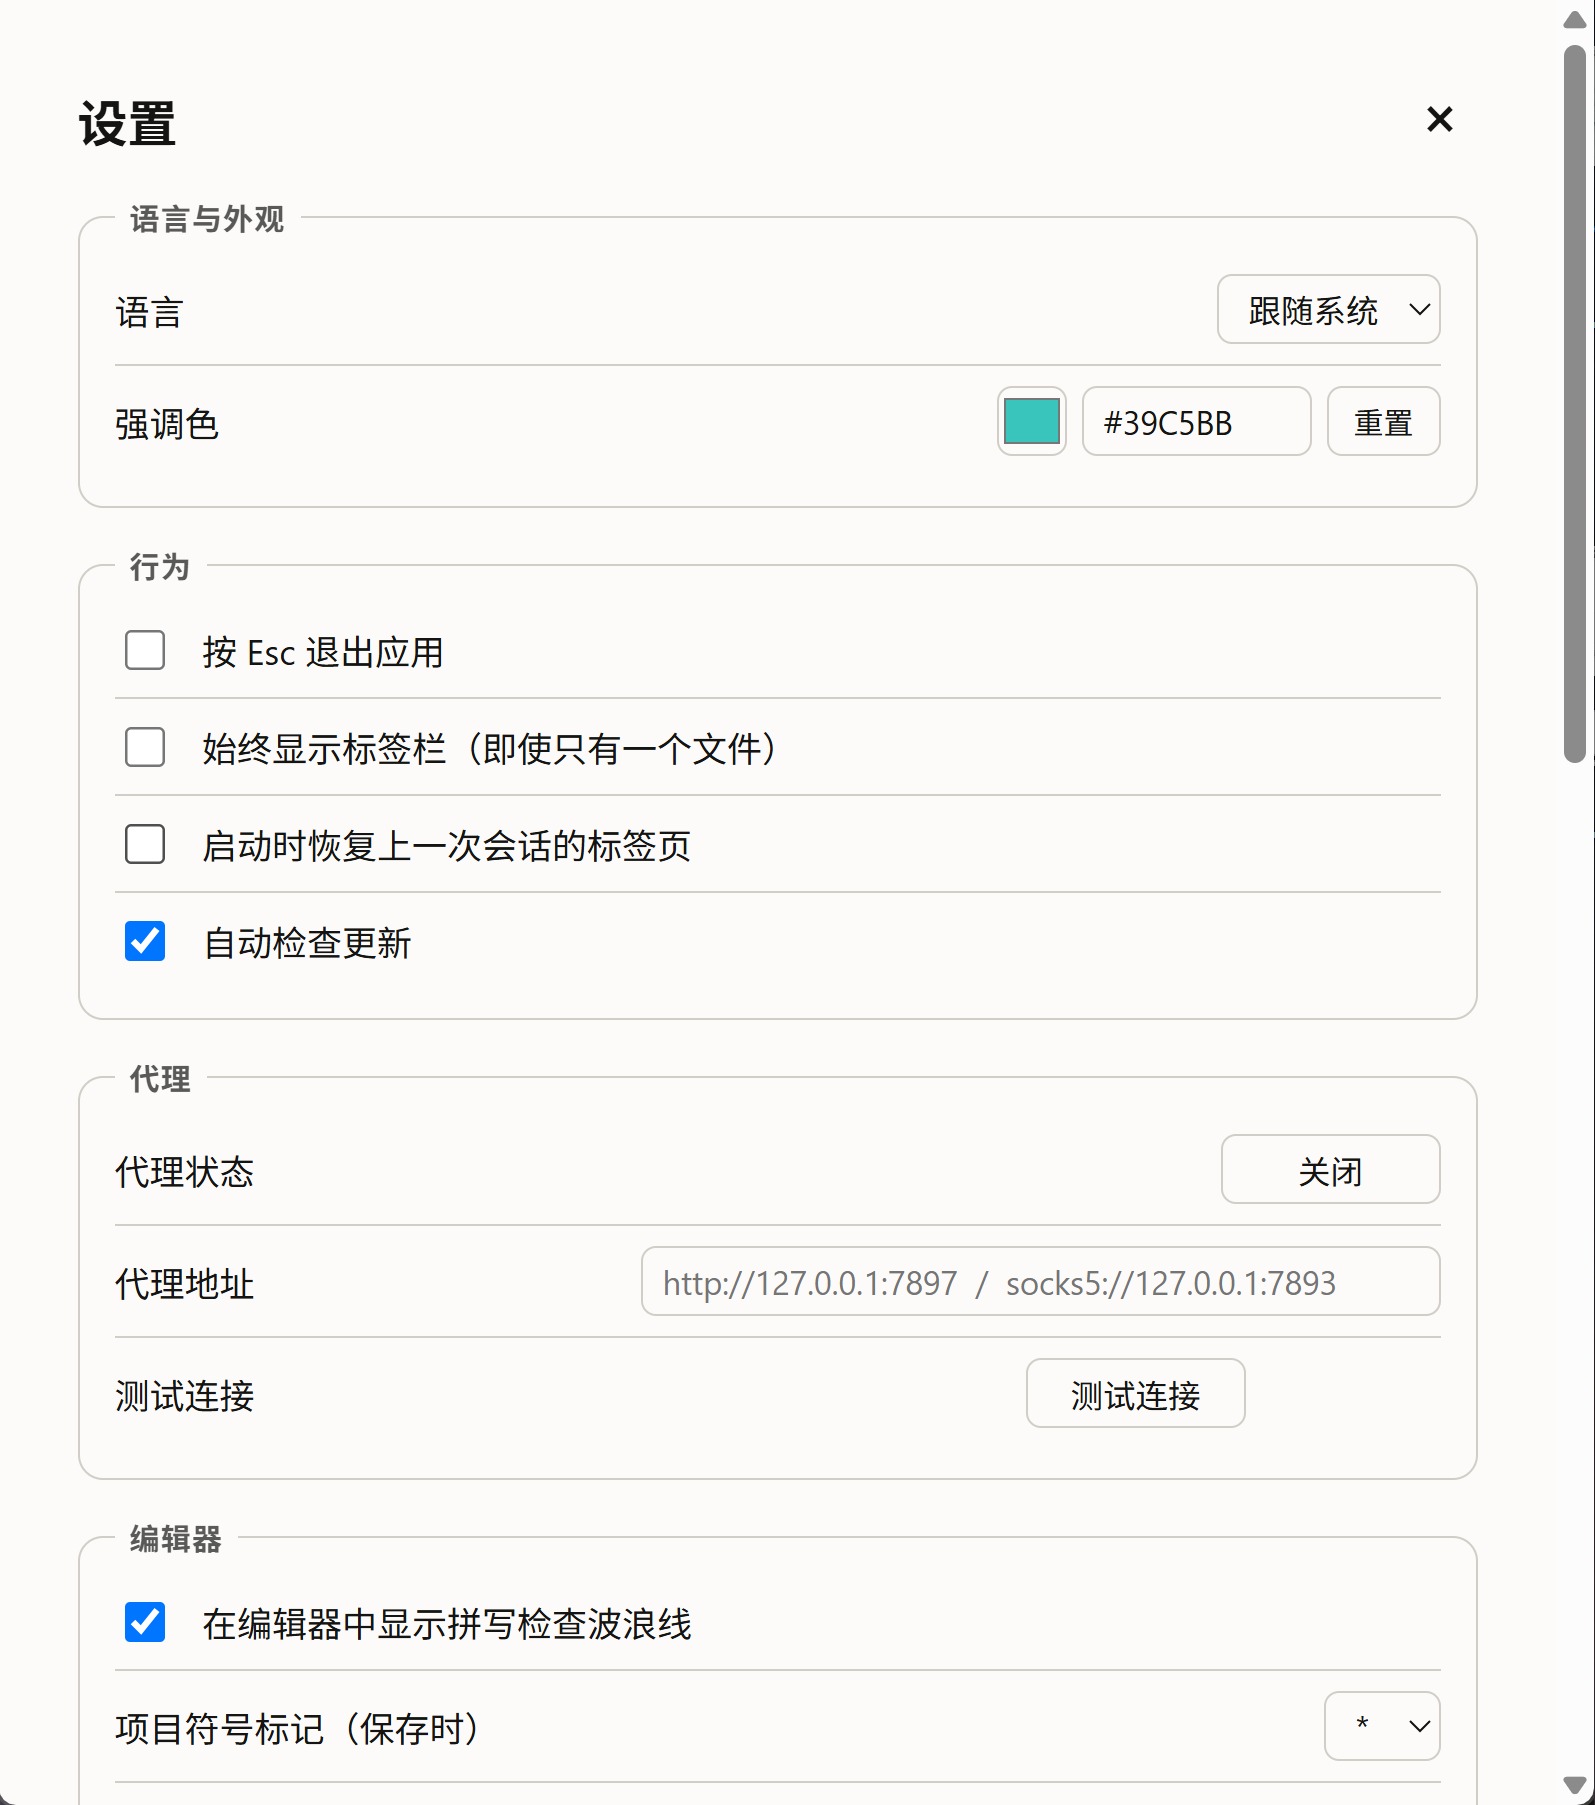
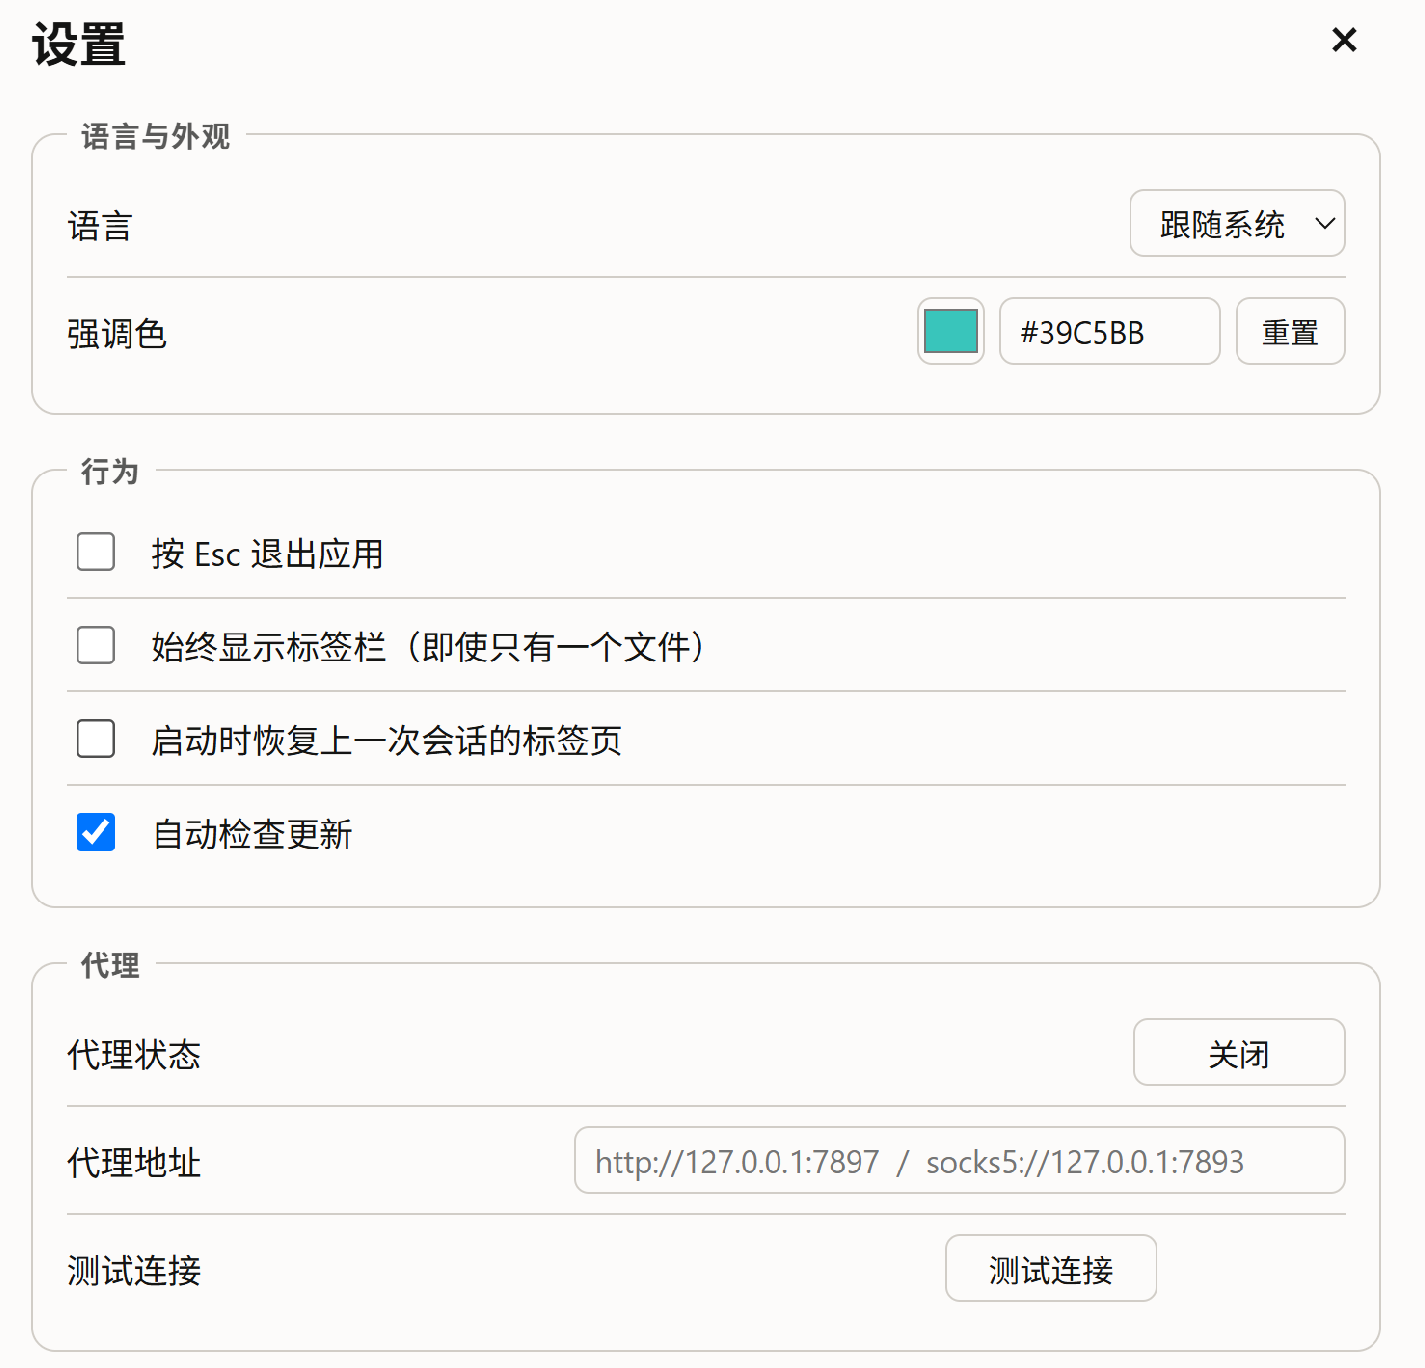
style: refine website showcase layout

diff --git a/docs/site.css b/docs/site.css
@@ -70,26 +70,27 @@ h2{font-size:clamp(52px,4.5vw,78px)}
 .window-card>figcaption b{font-weight:500}.window-card>figcaption em{margin-left:auto;color:#43998b;font-style:normal;font-size:12px}
 .traffic{display:flex;gap:6px}.traffic i{width:8px;height:8px;border-radius:50%;background:#bad7c6}.traffic i:first-child{background:#ecc7be}.traffic i:nth-child(2){background:#e4dca7}
 .window-card>img{display:block;width:100%;height:auto}
-.appearance-scene{grid-template-columns:minmax(0,.96fr) minmax(460px,.84fr);gap:36px}
-.appearance-shot{width:min(100%,610px);justify-self:center;transform:rotate(.55deg)}
-.setting-shot-wrap{display:grid;place-items:center;padding:10px 14px 14px;background:#fff}
-.setting-shot-wrap img{display:block;max-width:100%;width:auto;height:auto;max-height:calc(100svh - 250px);object-fit:contain}
+.appearance-scene{grid-template-columns:minmax(380px,400px) minmax(0,1fr);gap:24px}
+.appearance-scene .copy h2{font-size:clamp(50px,3.7vw,64px);white-space:nowrap}
+.appearance-shot{width:100%;justify-self:center;transform:rotate(.35deg)}
+.setting-shot-wrap{display:grid;place-items:center;padding:6px 8px 8px;background:#fff}
+.setting-shot-wrap img{display:block;width:100%;height:auto;max-width:100%;object-fit:contain}
 .appearance-miku{position:absolute;width:126px;right:-2px;bottom:20px;transform:rotate(8deg)}
 .appearance-hand{position:absolute;right:25%;bottom:48px;transform:rotate(-8deg)}
-.rhythm-scene{grid-template-columns:minmax(350px,405px) minmax(0,1fr);gap:38px}
-.rhythm-copy h2{font-size:clamp(48px,3.7vw,66px)}
+.rhythm-scene{grid-template-columns:minmax(420px,450px) minmax(0,1fr);gap:24px}
+.rhythm-copy h2{font-size:clamp(48px,3.25vw,56px);line-height:1.16;white-space:nowrap}
 .key-pills{display:flex;flex-wrap:wrap;gap:10px;margin:29px 0 34px}
 .key-pills span{font:15px Consolas,monospace;padding:10px 13px;background:#fff;border:1px solid #d7e4d8;border-bottom-width:4px;border-radius:9px}
 .rhythm-miku{display:block;width:170px;margin:20px 0 0 55px}
-.rhythm-shot{width:min(100%,780px);justify-self:center}
-.rhythm-shot-wrap{padding:12px 16px 16px}
-.rhythm-shot-wrap img{max-height:calc(100svh - 245px)}
-.showcase-scene{grid-template-columns:minmax(300px,370px) minmax(0,1fr);gap:38px}
-.showcase-copy h2{font-size:clamp(48px,3.8vw,67px)}
+.rhythm-shot{width:100%;justify-self:center}
+.rhythm-shot-wrap{padding:7px 9px 9px}
+.showcase-scene{grid-template-columns:minmax(380px,400px) minmax(0,1fr);gap:24px;align-items:start}
+.showcase-copy{padding-top:44px}
+.showcase-copy h2{font-size:clamp(46px,3.15vw,54px);line-height:1.16;white-space:nowrap}
 .showcase-topic{display:inline-block;padding:12px 18px;border-radius:10px;background:#e3f3e9;color:#248c80;font-size:16px;margin-top:6px}
 .showcase-miku{display:block;width:125px;margin-top:34px}
 .brand-sign{font-size:22px;font-weight:800;margin-top:8px}.brand-sign small{display:block;color:#82978d;font-size:13px;font-weight:400;margin-top:5px}
-.showcase-window{width:100%;max-height:76svh;display:flex;flex-direction:column}
+.showcase-window{width:100%;max-height:76svh;display:flex;flex-direction:column;align-self:start;margin-top:44px}
 .showcase-image-wrap{min-height:0;flex:1;display:grid;place-items:center;padding:14px 18px;background:#fff}
 .showcase-image-wrap img{display:block;max-width:100%;max-height:calc(76svh - 105px);object-fit:contain}
 .showcase-foot{display:flex;justify-content:space-between;gap:20px;padding:10px 17px;background:#f3f6f0;border-top:1px solid #e0e8dc;color:#7c9387;font-size:12px}
@@ -118,9 +119,10 @@ footer{min-height:70px;display:flex;align-items:center;justify-content:space-bet
   :root{--content:940px}
   .brand>span,.header-meta>span:not(.mint-dot){display:none}
   .scene{gap:34px}
-  .appearance-scene{grid-template-columns:minmax(0,.9fr) minmax(390px,.9fr);gap:28px}
-  .rhythm-scene{grid-template-columns:minmax(300px,360px) minmax(0,1fr)}
-  .showcase-scene{grid-template-columns:minmax(250px,320px) minmax(0,1fr)}
+  .appearance-scene{grid-template-columns:minmax(300px,340px) minmax(0,1fr);gap:22px}
+  .rhythm-scene{grid-template-columns:minmax(330px,360px) minmax(0,1fr);gap:22px}
+  .showcase-scene{grid-template-columns:minmax(300px,330px) minmax(0,1fr);gap:22px}
+  .appearance-scene .copy h2,.rhythm-copy h2,.showcase-copy h2{font-size:44px}
   .appearance-hand,.hero-hand{display:none}
   .ending-download{align-items:flex-start;flex-direction:column}
 }
@@ -132,14 +134,14 @@ footer{min-height:70px;display:flex;align-items:center;justify-content:space-bet
   .header-download{font-size:14px;padding:10px 12px;margin-left:0}
   .scene,.appearance-scene,.rhythm-scene,.showcase-scene,.ending-scene{grid-template-columns:1fr;min-height:calc(100svh - 150px);gap:28px;padding:27px 0 52px;align-content:start}
   .eyebrow{font-size:10px;letter-spacing:2px;margin-bottom:19px}
-  h1{font-size:clamp(50px,14vw,72px)}h2,.rhythm-copy h2,.showcase-copy h2{font-size:clamp(42px,11vw,61px)}
+  h1{font-size:clamp(50px,14vw,72px)}h2,.appearance-scene .copy h2,.rhythm-copy h2,.showcase-copy h2{font-size:clamp(42px,11vw,61px);white-space:normal}
   .copy>p{font-size:18px;margin:18px 0}.metric{gap:14px}.metric>strong{font-size:74px}.metric>strong small{font-size:20px}.metric>div{padding-left:14px}.metric>div b{font-size:26px}
   .hero-shot{padding:12px;margin-bottom:55px}.hero-shot figcaption{font-size:13px;margin-bottom:9px}.shot-note{font-size:11px}.shot-note em{font-size:18px}
   .hero-miku{width:105px;right:2%;bottom:30px}
-  .appearance-shot,.rhythm-shot{width:100%;transform:none}.setting-shot-wrap{padding:8px}.setting-shot-wrap img,.rhythm-shot-wrap img{max-height:none;width:100%}.appearance-miku{width:90px;right:-4px;bottom:10px}
+  .appearance-shot,.rhythm-shot{width:100%;transform:none}.setting-shot-wrap{padding:6px}.setting-shot-wrap img,.rhythm-shot-wrap img{width:100%}.appearance-miku{width:90px;right:-4px;bottom:10px}
   .feature b{font-size:18px}.feature small{font-size:13px}
   .rhythm-miku{position:absolute;width:85px;right:0;bottom:-12px;margin:0;opacity:.85}
-  .showcase-miku,.brand-sign{display:none}.showcase-window{max-height:none}.showcase-image-wrap img{max-height:none}
+  .showcase-copy{padding-top:0}.showcase-miku,.brand-sign{display:none}.showcase-window{max-height:none;margin-top:0}.showcase-image-wrap img{max-height:none}
   .showcase-foot{font-size:10px}.showcase-foot span:last-child{display:none}
   .ending-copy h2{font-size:clamp(48px,12vw,68px)}.ending-wordmark{font-size:31px}.ending-wordmark small{font-size:17px;margin-left:10px}
   .primary-download{width:100%;min-width:0;font-size:22px}.ending-art{width:min(72%,300px);justify-self:center}.ending-art .hand{font-size:16px}
